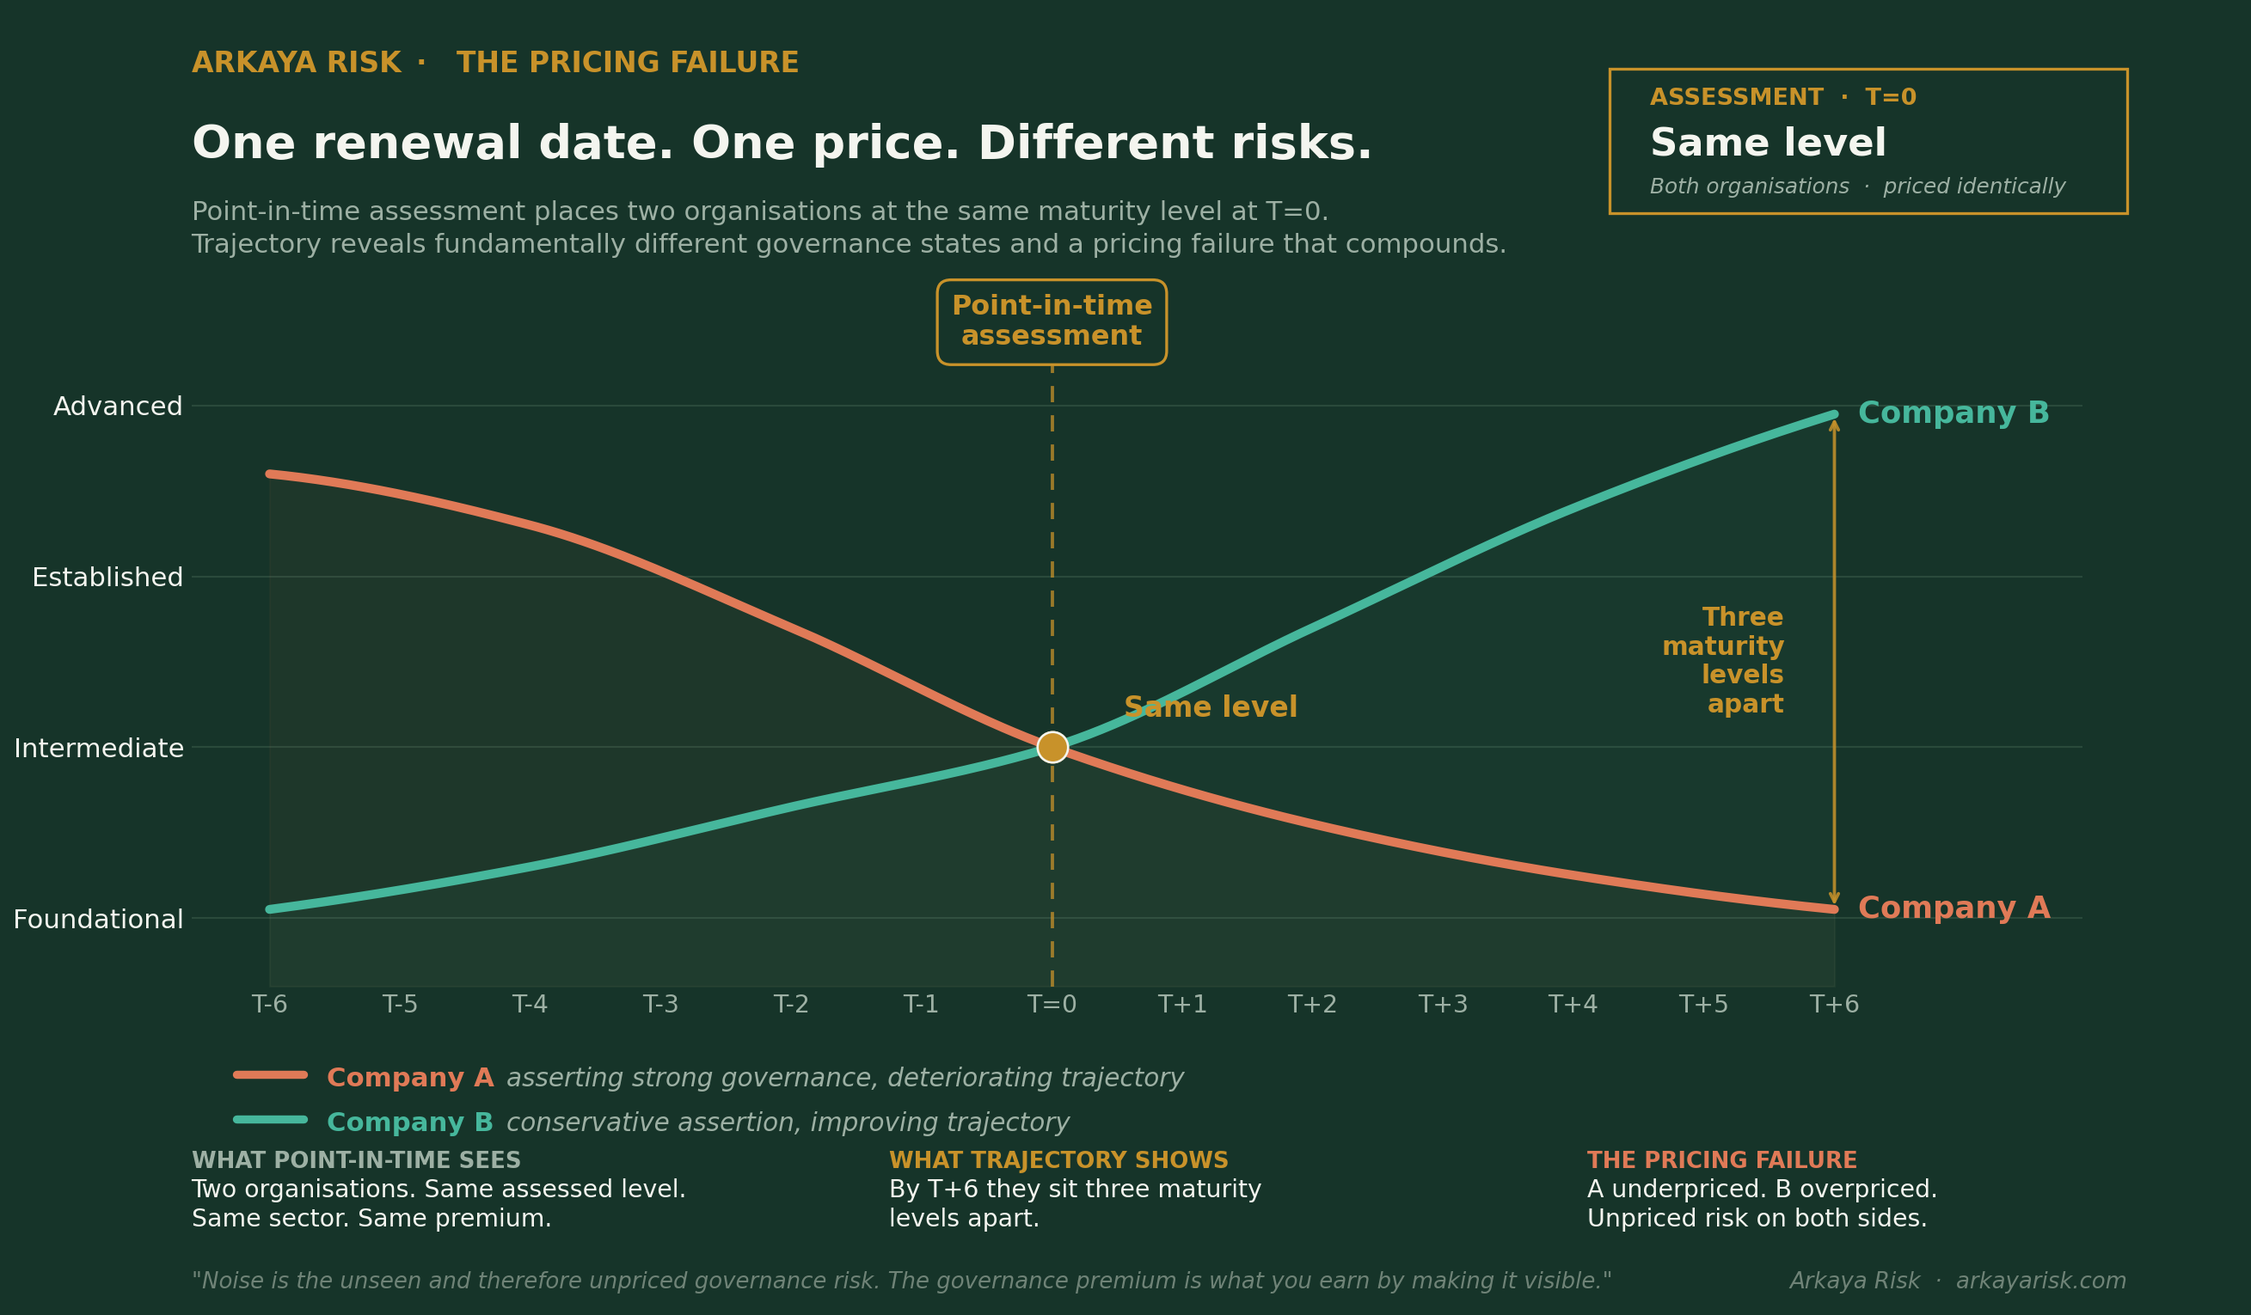
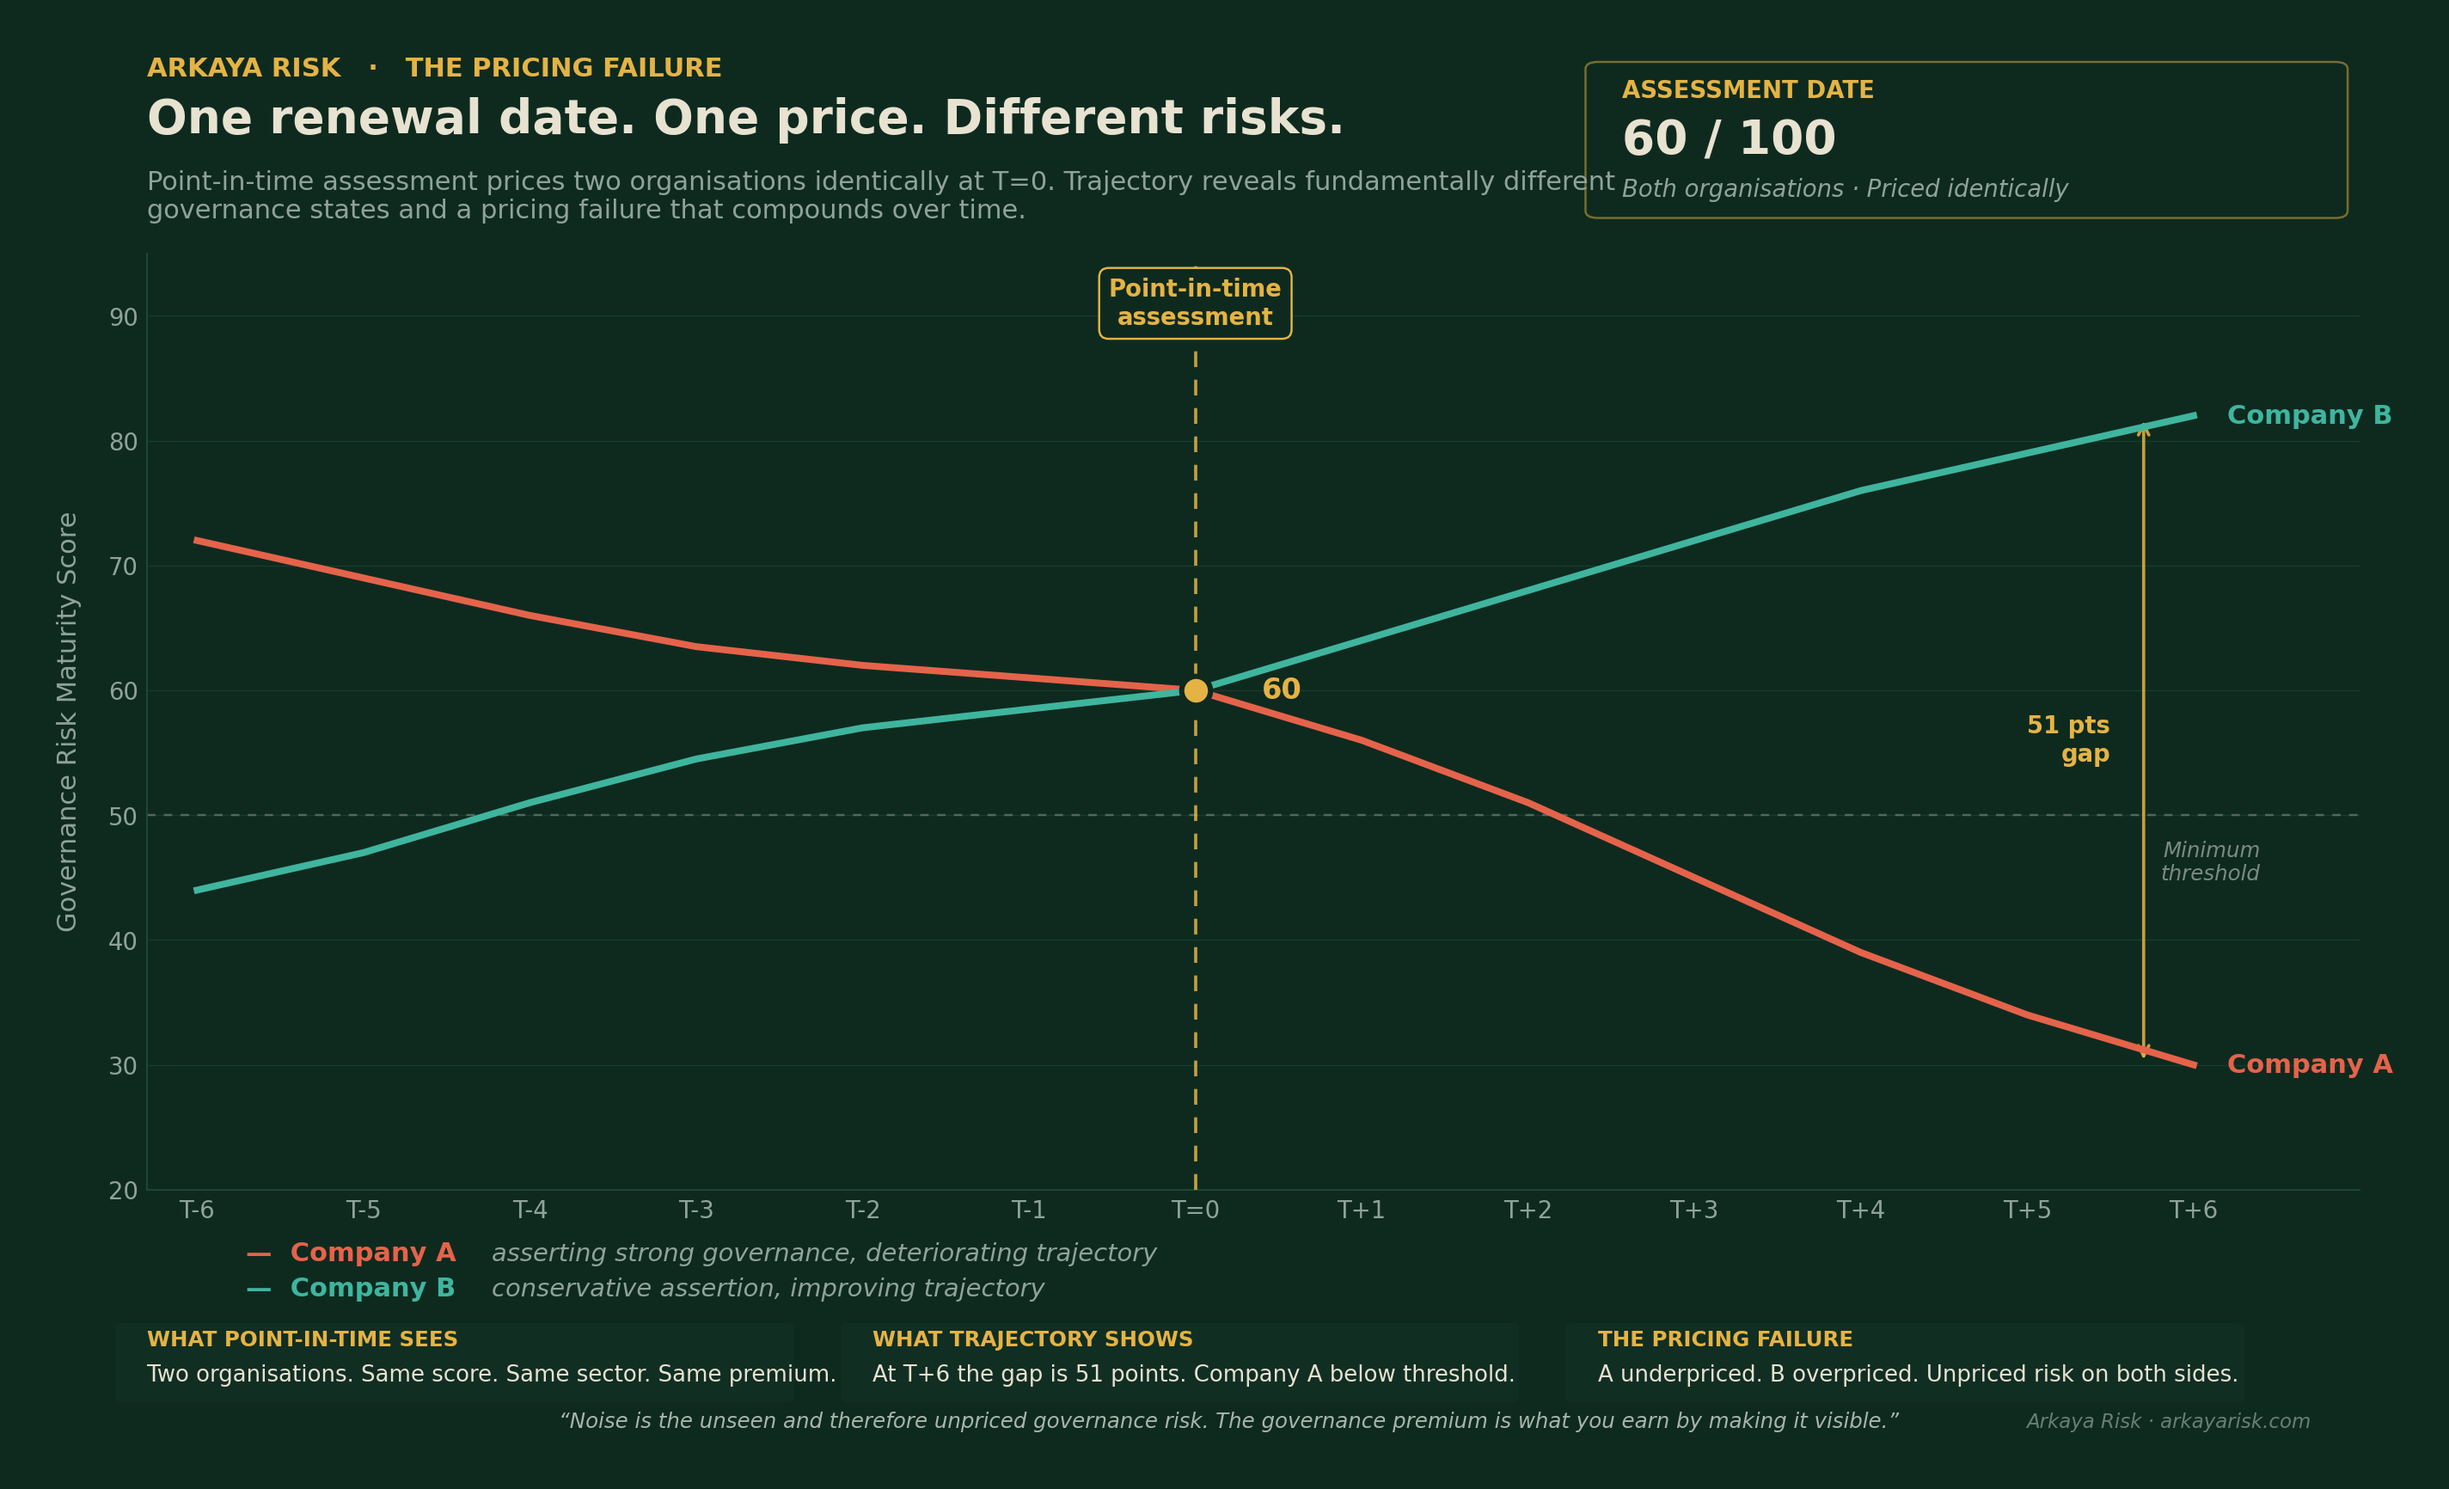
Add files via upload

diff --git a/ecosystem.html b/ecosystem.html
@@ -4,7 +4,7 @@
 <meta charset="UTF-8">
 <meta name="viewport" content="width=device-width, initial-scale=1.0">
 <title>The Arkaya ecosystem. One operation, read from a finite set of seats.</title>
-<meta name="description" content="Why the breadth is coherent. One governance-evidence operation read from three roles, Subject, Supervisor and Pricer. The schema is open and stewarded independently; multiple engines emit against it; any engine can be substituted. The layer the market is priced through.">
+<meta name="description" content="Why the breadth works. One governance-evidence operation read from three roles, Subject, Supervisor and Pricer. The schema is open and stewarded independently; multiple engines emit against it; any engine can be substituted. The layer the market is priced through.">
 <meta name="keywords" content="Arkaya ecosystem, governance evidence, Subject Supervisor Pricer, Layer 1, Layer 2, multi-engine, schema independence, infrastructure, capital stack, resilience capital">
 <link rel="preconnect" href="https://fonts.googleapis.com">
 <link rel="preconnect" href="https://fonts.gstatic.com" crossorigin>
@@ -131,7 +131,7 @@
 <section class="title-block">
   <div class="container">
     <div class="eyebrow">The Arkaya ecosystem</div>
-    <h1 class="page-title">Why the breadth is coherent.</h1>
+    <h1 class="page-title">Why the breadth works.</h1>
     <p class="page-subtitle">One operation, read from a finite set of seats. The capability is constant; the consequence is local.</p>
     <div class="title-meta">
       <span>One operation</span>
@@ -149,7 +149,7 @@
       Arkaya performs one operation: it continuously converts operational behaviour into governance evidence a counterparty can read. The Governance Evidence Taxonomy defines what evidence of a governed decision looks like; the Custos&#8482; Loop is the mechanism that produces it; the standard is held independent of any single counterparty, so every participant reads the same evidence in the same language.
     </p>
     <p>
-      The buyers are many. The operation is one. That is why the breadth is coherent and not a menu.
+      The buyers are many. The operation is one. That is why the breadth works, and is not a menu.
     </p>
   </div>
 </section>
@@ -213,7 +213,7 @@
       A new buyer is placed by two questions: which role, and which capital position. If it does not resolve to a role, the framework is wrong, not the offering extended.
     </p>
     <div class="pull">
-      <p>The capability is constant. The consequence is local. That is why the breadth coheres.</p>
+      <p>The capability is constant. The consequence is local. That is why the breadth works.</p>
     </div>
   </div>
 </section>
